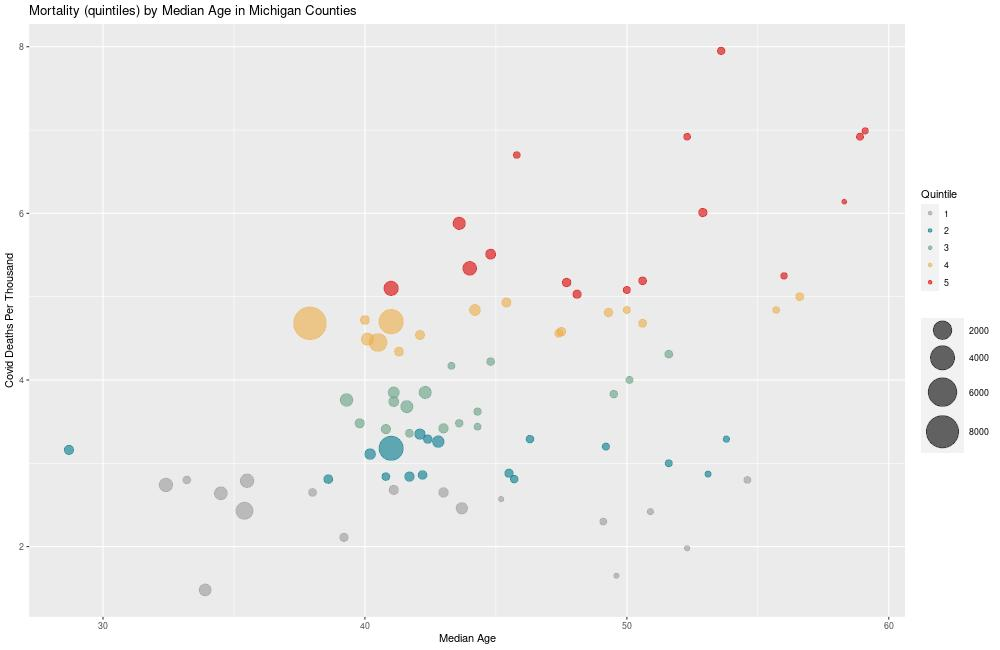
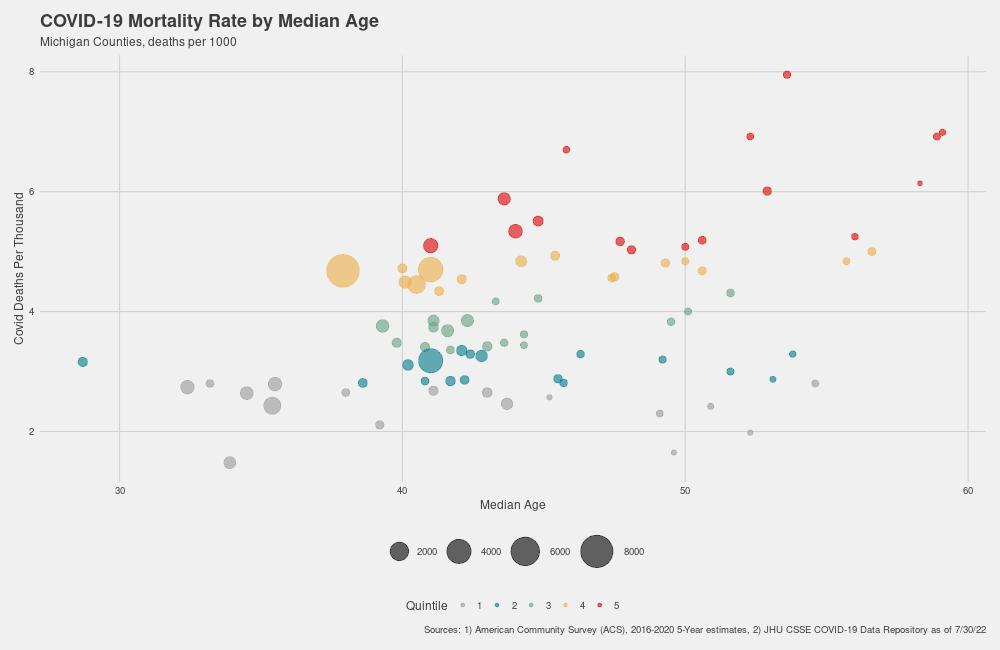
applied 538 theme to the plots

diff --git a/README.md b/README.md
@@ -13,7 +13,7 @@
 ***
 
 
-## COVID-19 Mortality & Socioeconomic Trends in Michigan by County \
+## COVID-19 Mortality & Socioeconomic Trends in Michigan by County 
 *Stat 518 Final Project*
 
 - ### [Introduction](https://github.com/BrookemWalters/BrookemWalters-Portfolio/blob/main/Stats%20518%20Final%20Project/Introduction.md#introduction-to-michigan-counties-in-a-pandemic)
